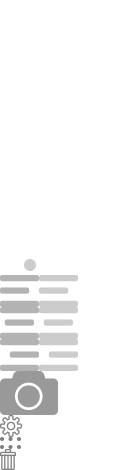
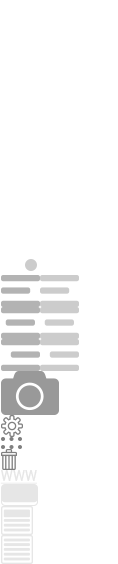
Added headline and text to text widget

Changed region(s): [[0.0, 0.4468, 0.6667, 1.0]]

diff --git a/public/flyer.js b/public/flyer.js
@@ -228,6 +228,8 @@ function Flyer(options) {
                         elem.id=elem.id+'_'+idCounter;
                     if(elem.htmlFor)
                         elem.htmlFor=elem.htmlFor+'_'+idCounter;
+                    if(elem.name)
+                        elem.name=elem.name+'_'+idCounter;
 
                 });
             x.find('#leftAlign_'+idCounter).click((function(widget){
@@ -243,6 +245,37 @@ function Flyer(options) {
             x.find('#rightAlign_'+idCounter).click((function(widget){
                 return function(){
                     widget.portlet.find('.textfield').css('text-align','right');
+                }
+            })(this));
+
+            x.find('#rightAlign_'+idCounter).click((function(widget){
+                return function(){
+                    widget.portlet.find('.textfield').css('text-align','right');
+                }
+            })(this));
+            x.find('#headline_'+idCounter).click((function(widget){
+                return function(){
+                    var textField=widget.portlet.find('.textfield');
+                    textField.children('div').each(
+                        function(id,line){
+                            line.innerHTML=('<h2>'+line.innerHTML+'</h2>');
+                        });
+
+                    var html=textField.html()
+                    var firstline=html.substr(0,html.indexOf('<div>'));
+                    var rest=html.substr(html.indexOf('<div>'));
+                    if(firstline.length>0)
+                        firstline='<h2>'+firstline+'</h2>';
+                    textField.html(firstline+rest);
+
+                }
+            })(this));
+
+            x.find('#text_'+idCounter).click((function(widget){
+                return function(){
+                    var text=widget.portlet.find('.textfield');
+                    text.html(text.html().replace(/<h2>/g,''));
+                    text.html(text.html().replace(/<\/h2>/g,''));
                 }
             })(this));
             return x;
@@ -261,8 +294,7 @@ function Flyer(options) {
 
         this.deserialize = function(data){
             // ToDo: Retrieval text-align too.
-            this.portlet.parent().find('.'+data.align+'Align').attr('checked', 'checked');
-
+            var id = this.portlet.parent().find('.'+data.align+'Align').attr('checked','checked');
             return this.portlet
                 .find('.portlet-content-text')
                 .html(data.text)

diff --git a/public/less/textwidget.less b/public/less/textwidget.less
@@ -34,6 +34,7 @@
   .r-icon();
   left: 0;
   right: 0;
+  height: 32px;
 }
 .r-icon{
   background-image: url("/images/flyer-icons.png");
@@ -43,7 +44,7 @@
   bottom: 0;
   right: 20px;
   width: 39px;
-  height: 32px;
+  height: 30px;
   overflow: hidden;
 }
 .round(@nw:4px,@ne:4px,@se:4px,@sw:4px){
@@ -60,9 +61,9 @@
 .bbtn-label{
   width:@setButtonWidth;
   height: @setButtonHeight;
-  background: #808080;
+  background: #999999;
   cursor: pointer;
-  .shadow(@radioBtnIndent);
+  .shadow(@radioBtnIndent,#666666);
   .round();
 }
 .btn-Margin{
@@ -84,7 +85,8 @@ input[type='radio']:checked+.bbtn-label{
 .b-icon-align-left { background-position: 0px -275px;}
 .b-icon-align-center { background-position: 0px -307px;}
 .b-icon-align-right { background-position: 0px -339px;}
-
+.b-icon-headline{background-position: 0 -506px; }
+.b-icon-text{background-position: 0 -534px;}
 input[type='radio']:checked+.bbtn-label>.b-icon-align-left {background-position:39px -275px; }
 input[type='radio']:checked+.bbtn-label>.b-icon-align-center {background-position:39px -307px; }
 input[type='radio']:checked+.bbtn-label>.b-icon-align-right {background-position:39px -339px; }
@@ -99,7 +101,7 @@ input[type='radio']:checked+.bbtn-label>.b-icon-align-right {background-position
   width: 60px;
   height: @setFieldHeight;
   position: relative;
-  background-color: #eee;
+  background-color: #b3b3b3;
   float: left;
   cursor: pointer;
   .round(4px,0,0,4px);
@@ -123,7 +125,7 @@ input[type='radio']:checked+.bbtn-label>.b-icon-align-right {background-position
   border-right: 0;
 }
 .radio-label{
-  background: #ddd;
+  background: #999999;
   border: none;
   height: @setFieldHeight;
   line-height: @setFieldHeight;
@@ -136,12 +138,7 @@ input[type='radio']:checked+.bbtn-label>.b-icon-align-right {background-position
   display: table-cell;
   .round(0,4px,4px,0);
 }
-.radio-label-icon{
-  position: absolute;
-  right: 20px;
-  width: 30px;
-  height: 30px;
-}
+
 
 .circle{
   border-radius: 50%;
@@ -211,6 +208,7 @@ input[type='radio']:checked+.circle .in{
   padding: 10px;
   box-sizing: border-box;
   float: left;
+  background: #f2f2f2;
 }
 .bbtn-radio{
   display: none;
